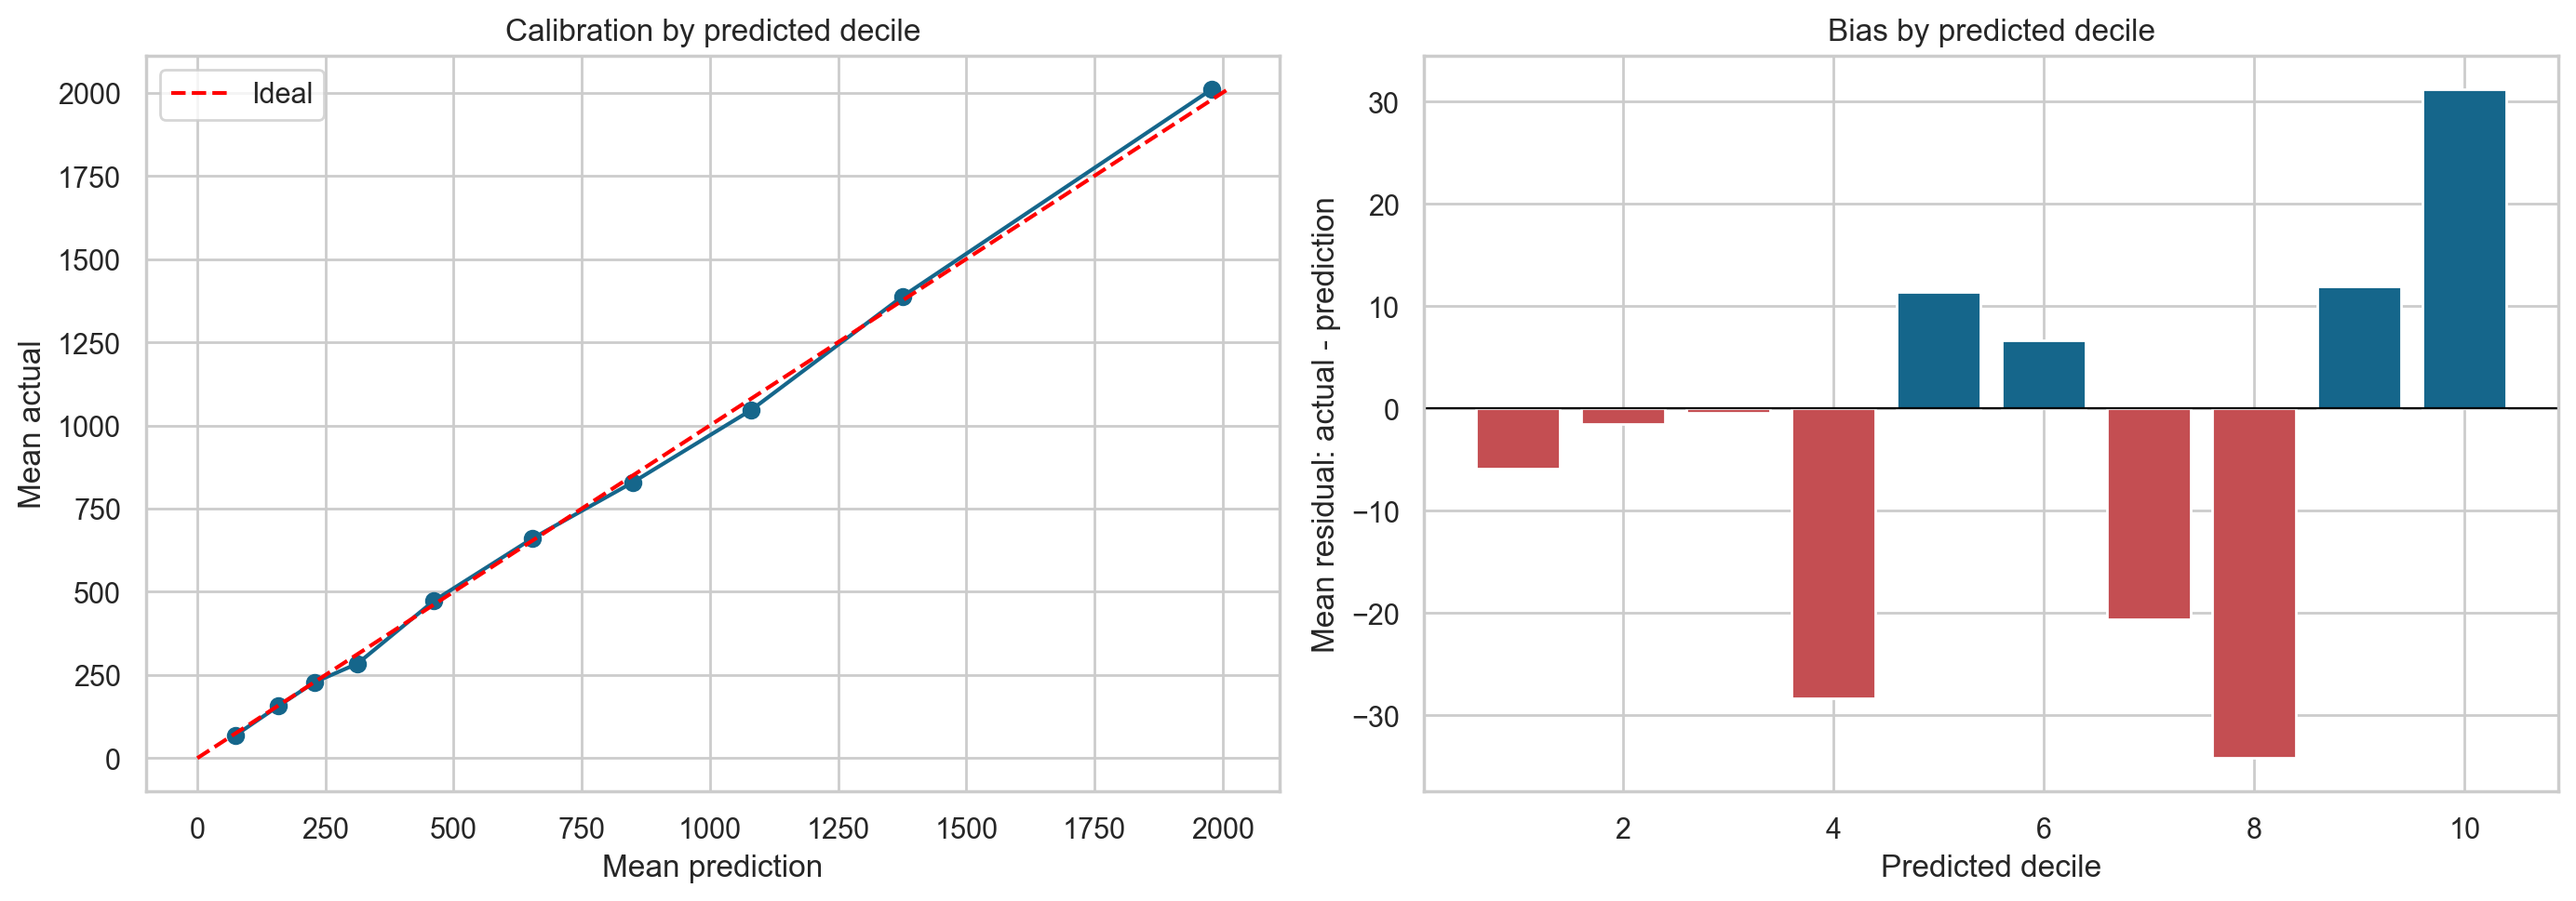
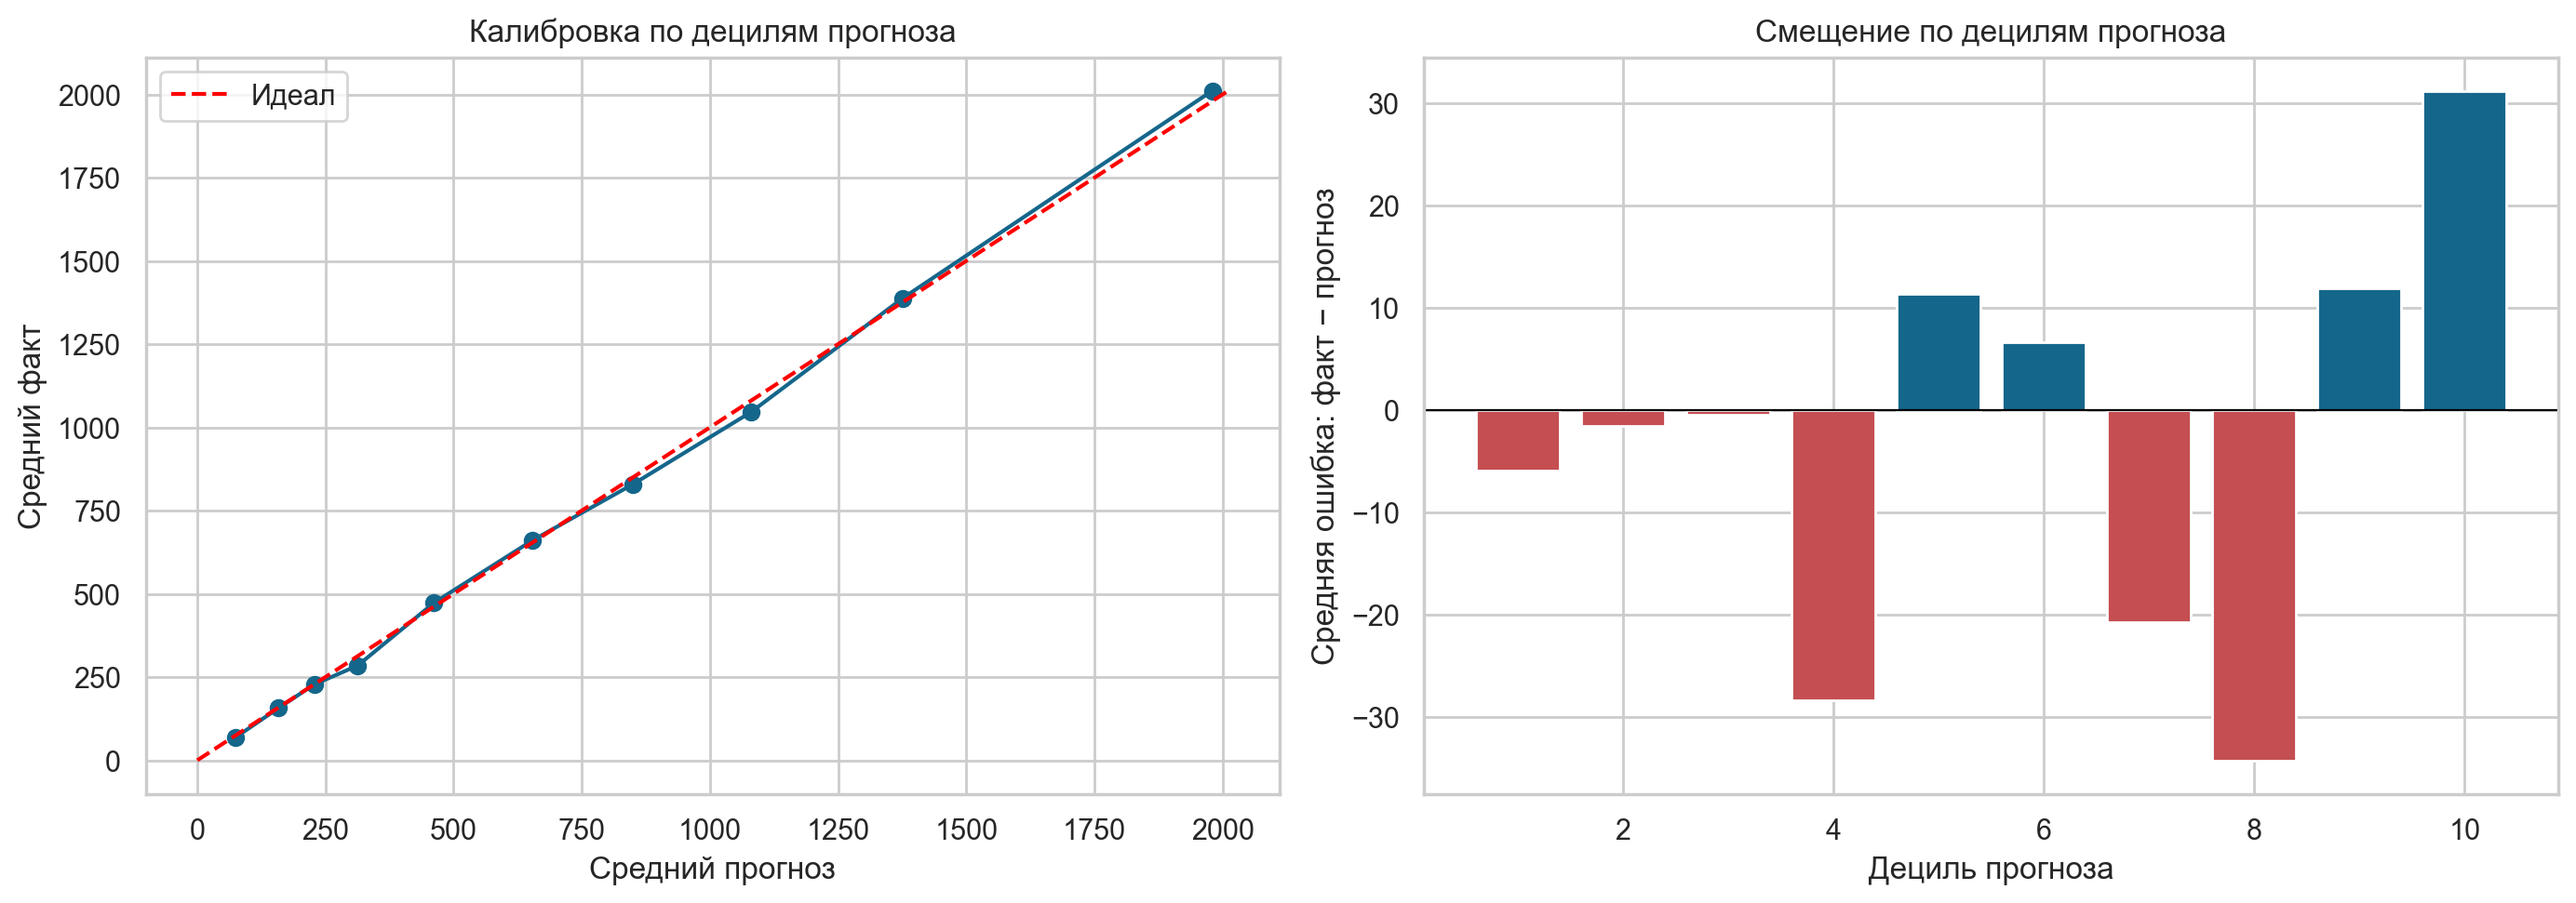
analysis: translate error charts to Russian

diff --git a/error_analysis_07.py b/error_analysis_07.py
@@ -1,6 +1,4 @@
 # Разбор ошибок финальной HGB-модели для презентации.
-# Используется тот же random split и те же гиперпараметры,
-# что в gradient_boosting_05.py. Пайплайн не меняется.
 
 from __future__ import annotations
 
@@ -25,6 +23,30 @@ REPORTS_DIR = BASE_DIR / "reports"
 
 RANDOM_STATE = 42
 MIN_GROUP_SIZE = 20
+
+SEASON_LABELS = {
+    "Winter": "Зима",
+    "Spring": "Весна",
+    "Summer": "Лето",
+    "Autumn": "Осень",
+}
+
+WEATHER_LABELS = {
+    "Dry": "Сухо",
+    "Rain": "Дождь",
+    "Snow": "Снег",
+    "Rain + snow": "Дождь + снег",
+}
+
+HOLIDAY_LABELS = {
+    "Regular": "Обычный",
+    "Holiday": "Праздник",
+}
+
+DAY_TYPE_LABELS = {
+    "Weekday": "Будни",
+    "Weekend": "Выходные",
+}
 
 SEGMENT_GROUPS = [
     ("Hour", "Hour"),
@@ -288,9 +310,11 @@ def make_figures(results, calibration):
         columns=["Winter", "Spring", "Summer", "Autumn"]
     )
 
+    heatmap_display = heatmap_data.rename(columns=SEASON_LABELS)
+
     fig, ax = plt.subplots(figsize=(8, 8))
     sns.heatmap(
-        heatmap_data,
+        heatmap_display,
         annot=True,
         fmt=".0f",
         cmap="YlOrRd",
@@ -299,9 +323,9 @@ def make_figures(results, calibration):
         ax=ax,
     )
     ax.set(
-        title="RMSE by hour and season",
-        xlabel="Season",
-        ylabel="Hour",
+        title="RMSE по часам и сезонам",
+        xlabel="Сезон",
+        ylabel="Час",
     )
     fig.tight_layout()
     fig.savefig(
@@ -328,12 +352,12 @@ def make_figures(results, calibration):
         [0, upper],
         linestyle="--",
         color="red",
-        label="Ideal",
+        label="Идеал",
     )
     axes[0].set(
-        title="Calibration by predicted decile",
-        xlabel="Mean prediction",
-        ylabel="Mean actual",
+        title="Калибровка по децилям прогноза",
+        xlabel="Средний прогноз",
+        ylabel="Средний факт",
     )
     axes[0].legend()
 
@@ -349,9 +373,9 @@ def make_figures(results, calibration):
     )
     axes[1].axhline(0, color="black", linewidth=0.8)
     axes[1].set(
-        title="Bias by predicted decile",
-        xlabel="Predicted decile",
-        ylabel="Mean residual: actual - prediction",
+        title="Смещение по децилям прогноза",
+        xlabel="Дециль прогноза",
+        ylabel="Средняя ошибка: факт − прогноз",
     )
 
     fig.tight_layout()
@@ -363,10 +387,10 @@ def make_figures(results, calibration):
     plt.close(fig)
 
     segments = [
-        ("Weather", "Weather"),
-        ("Holiday status", "Holiday"),
-        ("Day type", "Day type"),
-        ("Demand band", "Actual demand"),
+        ("Weather", "погоде", WEATHER_LABELS),
+        ("Holiday status", "праздникам", HOLIDAY_LABELS),
+        ("Day type", "типу дня", DAY_TYPE_LABELS),
+        ("Demand band", "фактическому спросу", {}),
     ]
     orders = {
         "Weather": ["Dry", "Rain", "Snow", "Rain + snow"],
@@ -377,19 +401,28 @@ def make_figures(results, calibration):
 
     fig, axes = plt.subplots(2, 2, figsize=(14, 10))
 
-    for ax, (column, title) in zip(axes.flat, segments):
+    for ax, (column, title, labels) in zip(axes.flat, segments):
         summary = summarize_errors(
             results,
             column,
         ).reset_index()
 
-        order = orders[column]
-        counts = summary.set_index(column)["Observations"]
-        reliable = summary.set_index(column)["Reliable"]
+        summary["Group label"] = (
+            summary[column].astype(str).map(labels).fillna(
+                summary[column].astype(str)
+            )
+        )
+
+        order = [
+            labels.get(group, group)
+            for group in orders[column]
+        ]
+        counts = summary.set_index("Group label")["Observations"]
+        reliable = summary.set_index("Group label")["Reliable"]
 
         sns.barplot(
             data=summary,
-            x=column,
+            x="Group label",
             y="RMSE",
             order=order,
             color="#15668b",
@@ -409,13 +442,14 @@ def make_figures(results, calibration):
                 fontsize=8,
             )
 
-        ax.set_title(f"RMSE by {title.lower()}")
+        ax.set_title(f"RMSE по {title}")
+        ax.set_xlabel("")
         ax.tick_params(axis="x", rotation=20)
 
     fig.text(
         0.5,
         0.01,
-        "Gray bars: fewer than 20 observations",
+        "Серые столбцы: меньше 20 наблюдений",
         ha="center",
         fontsize=9,
     )
